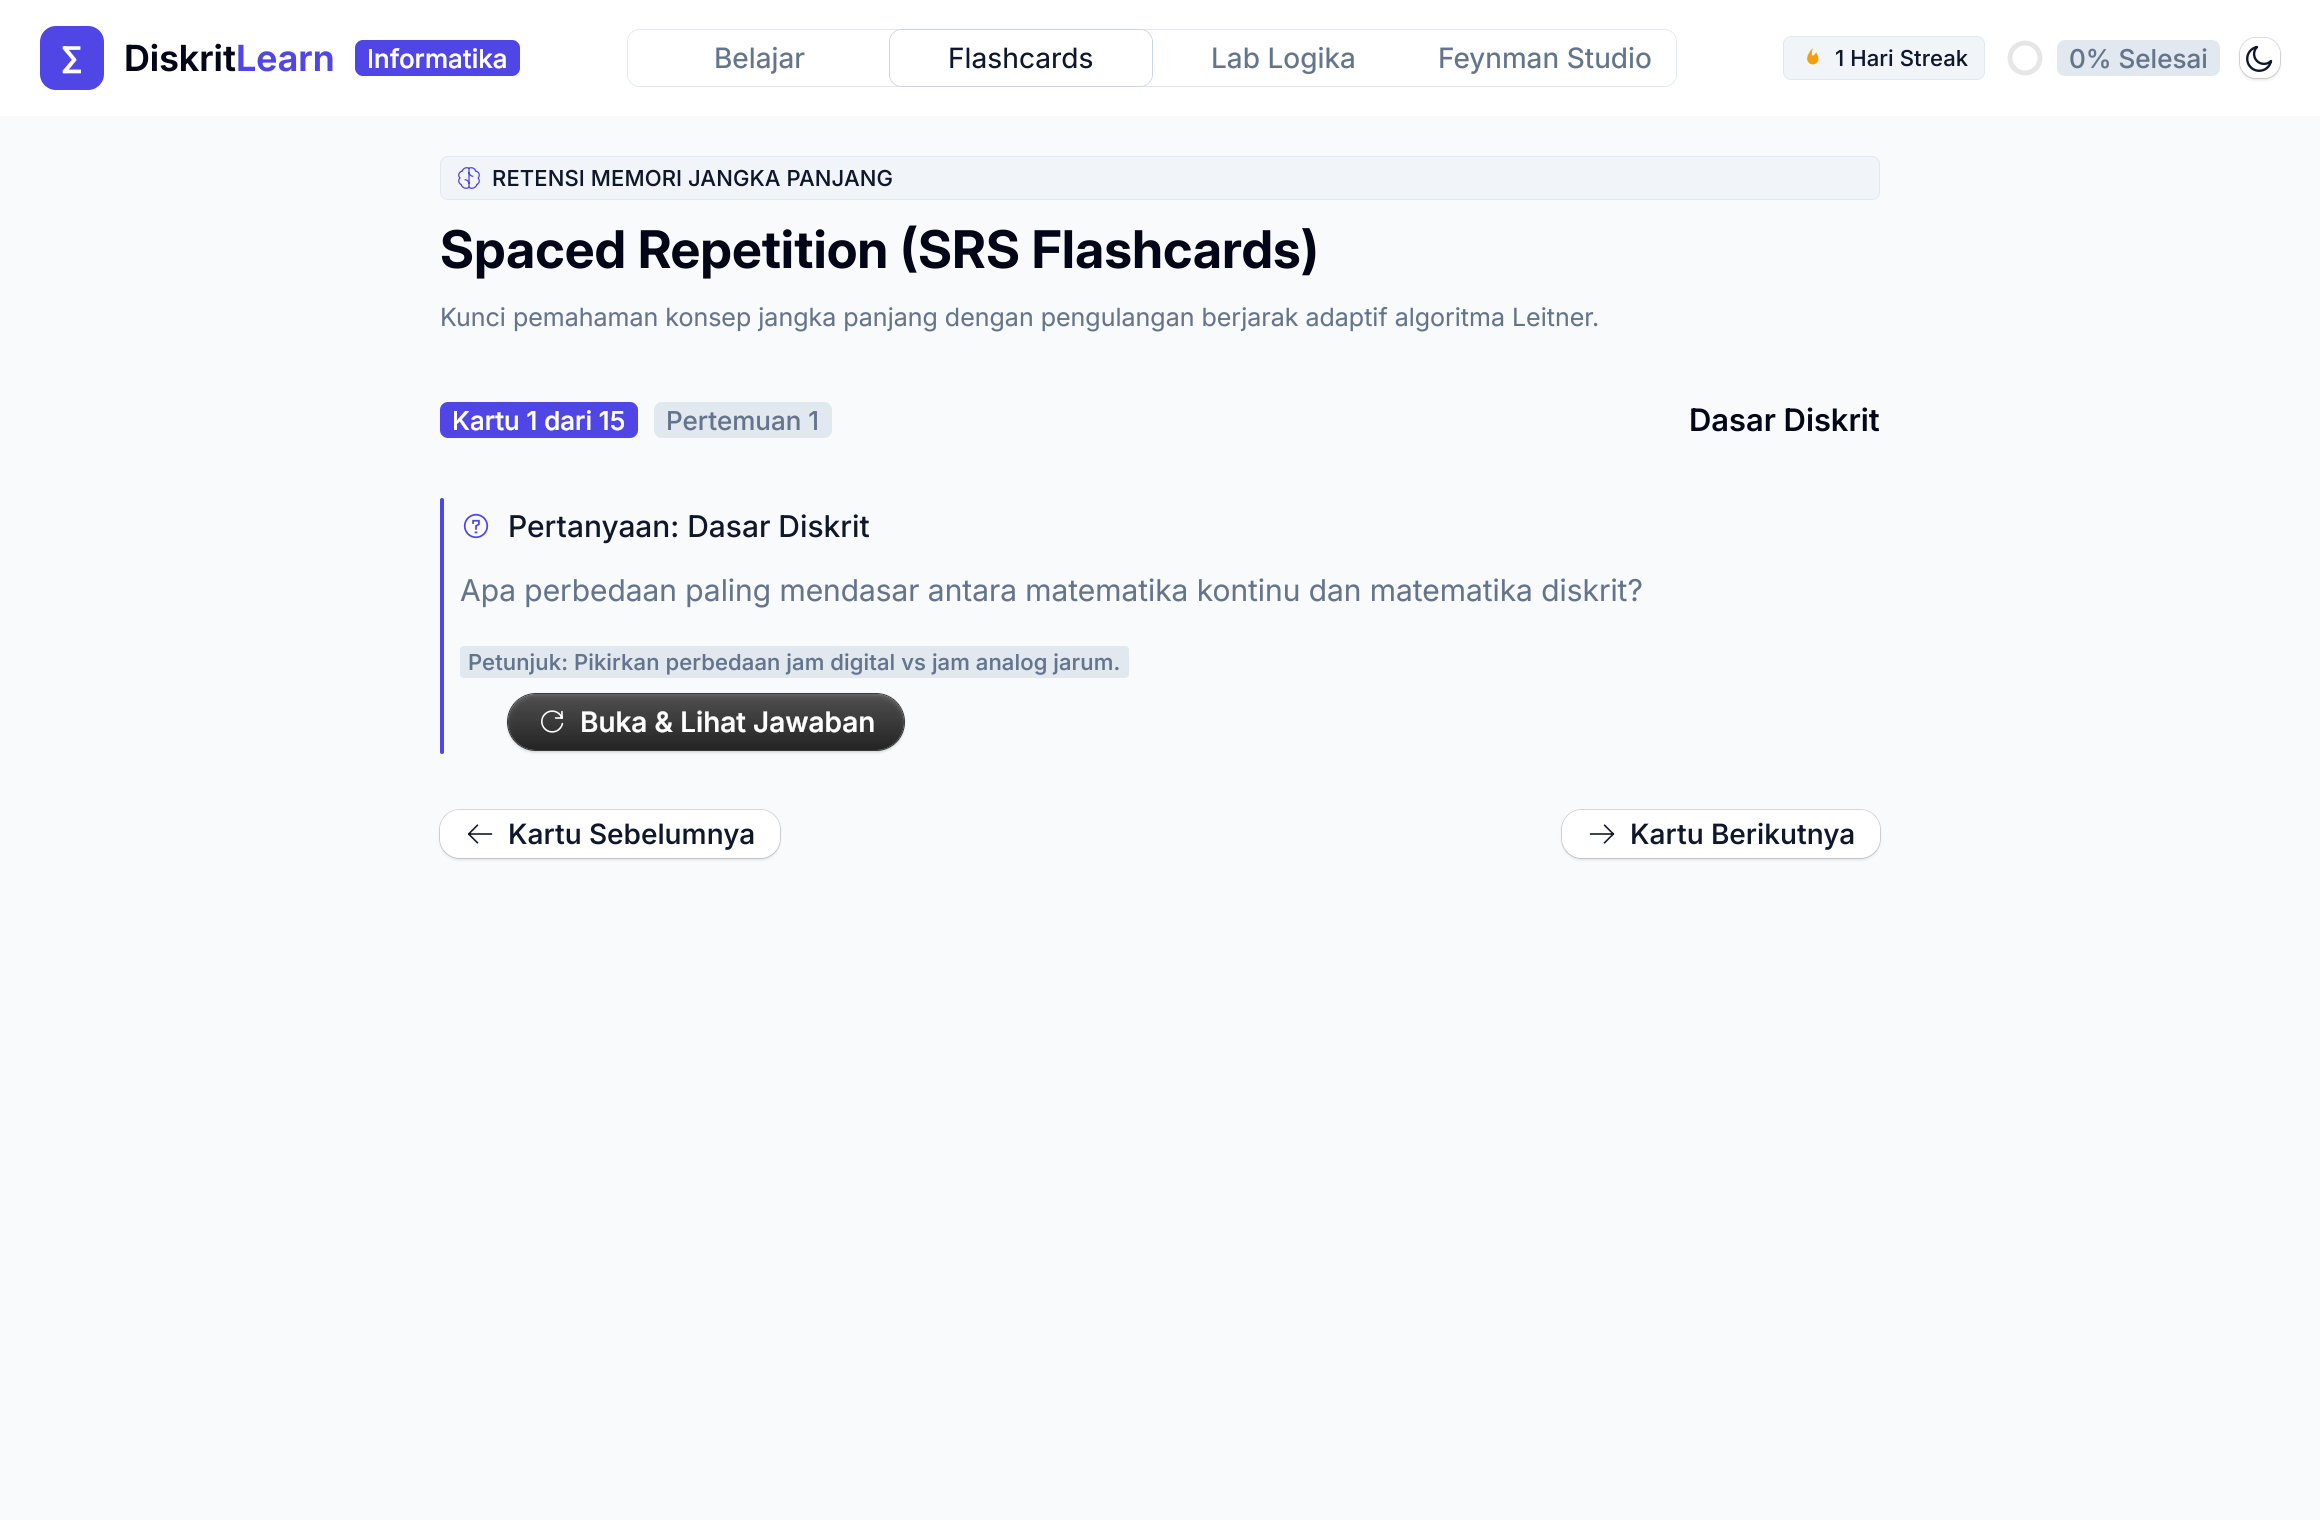
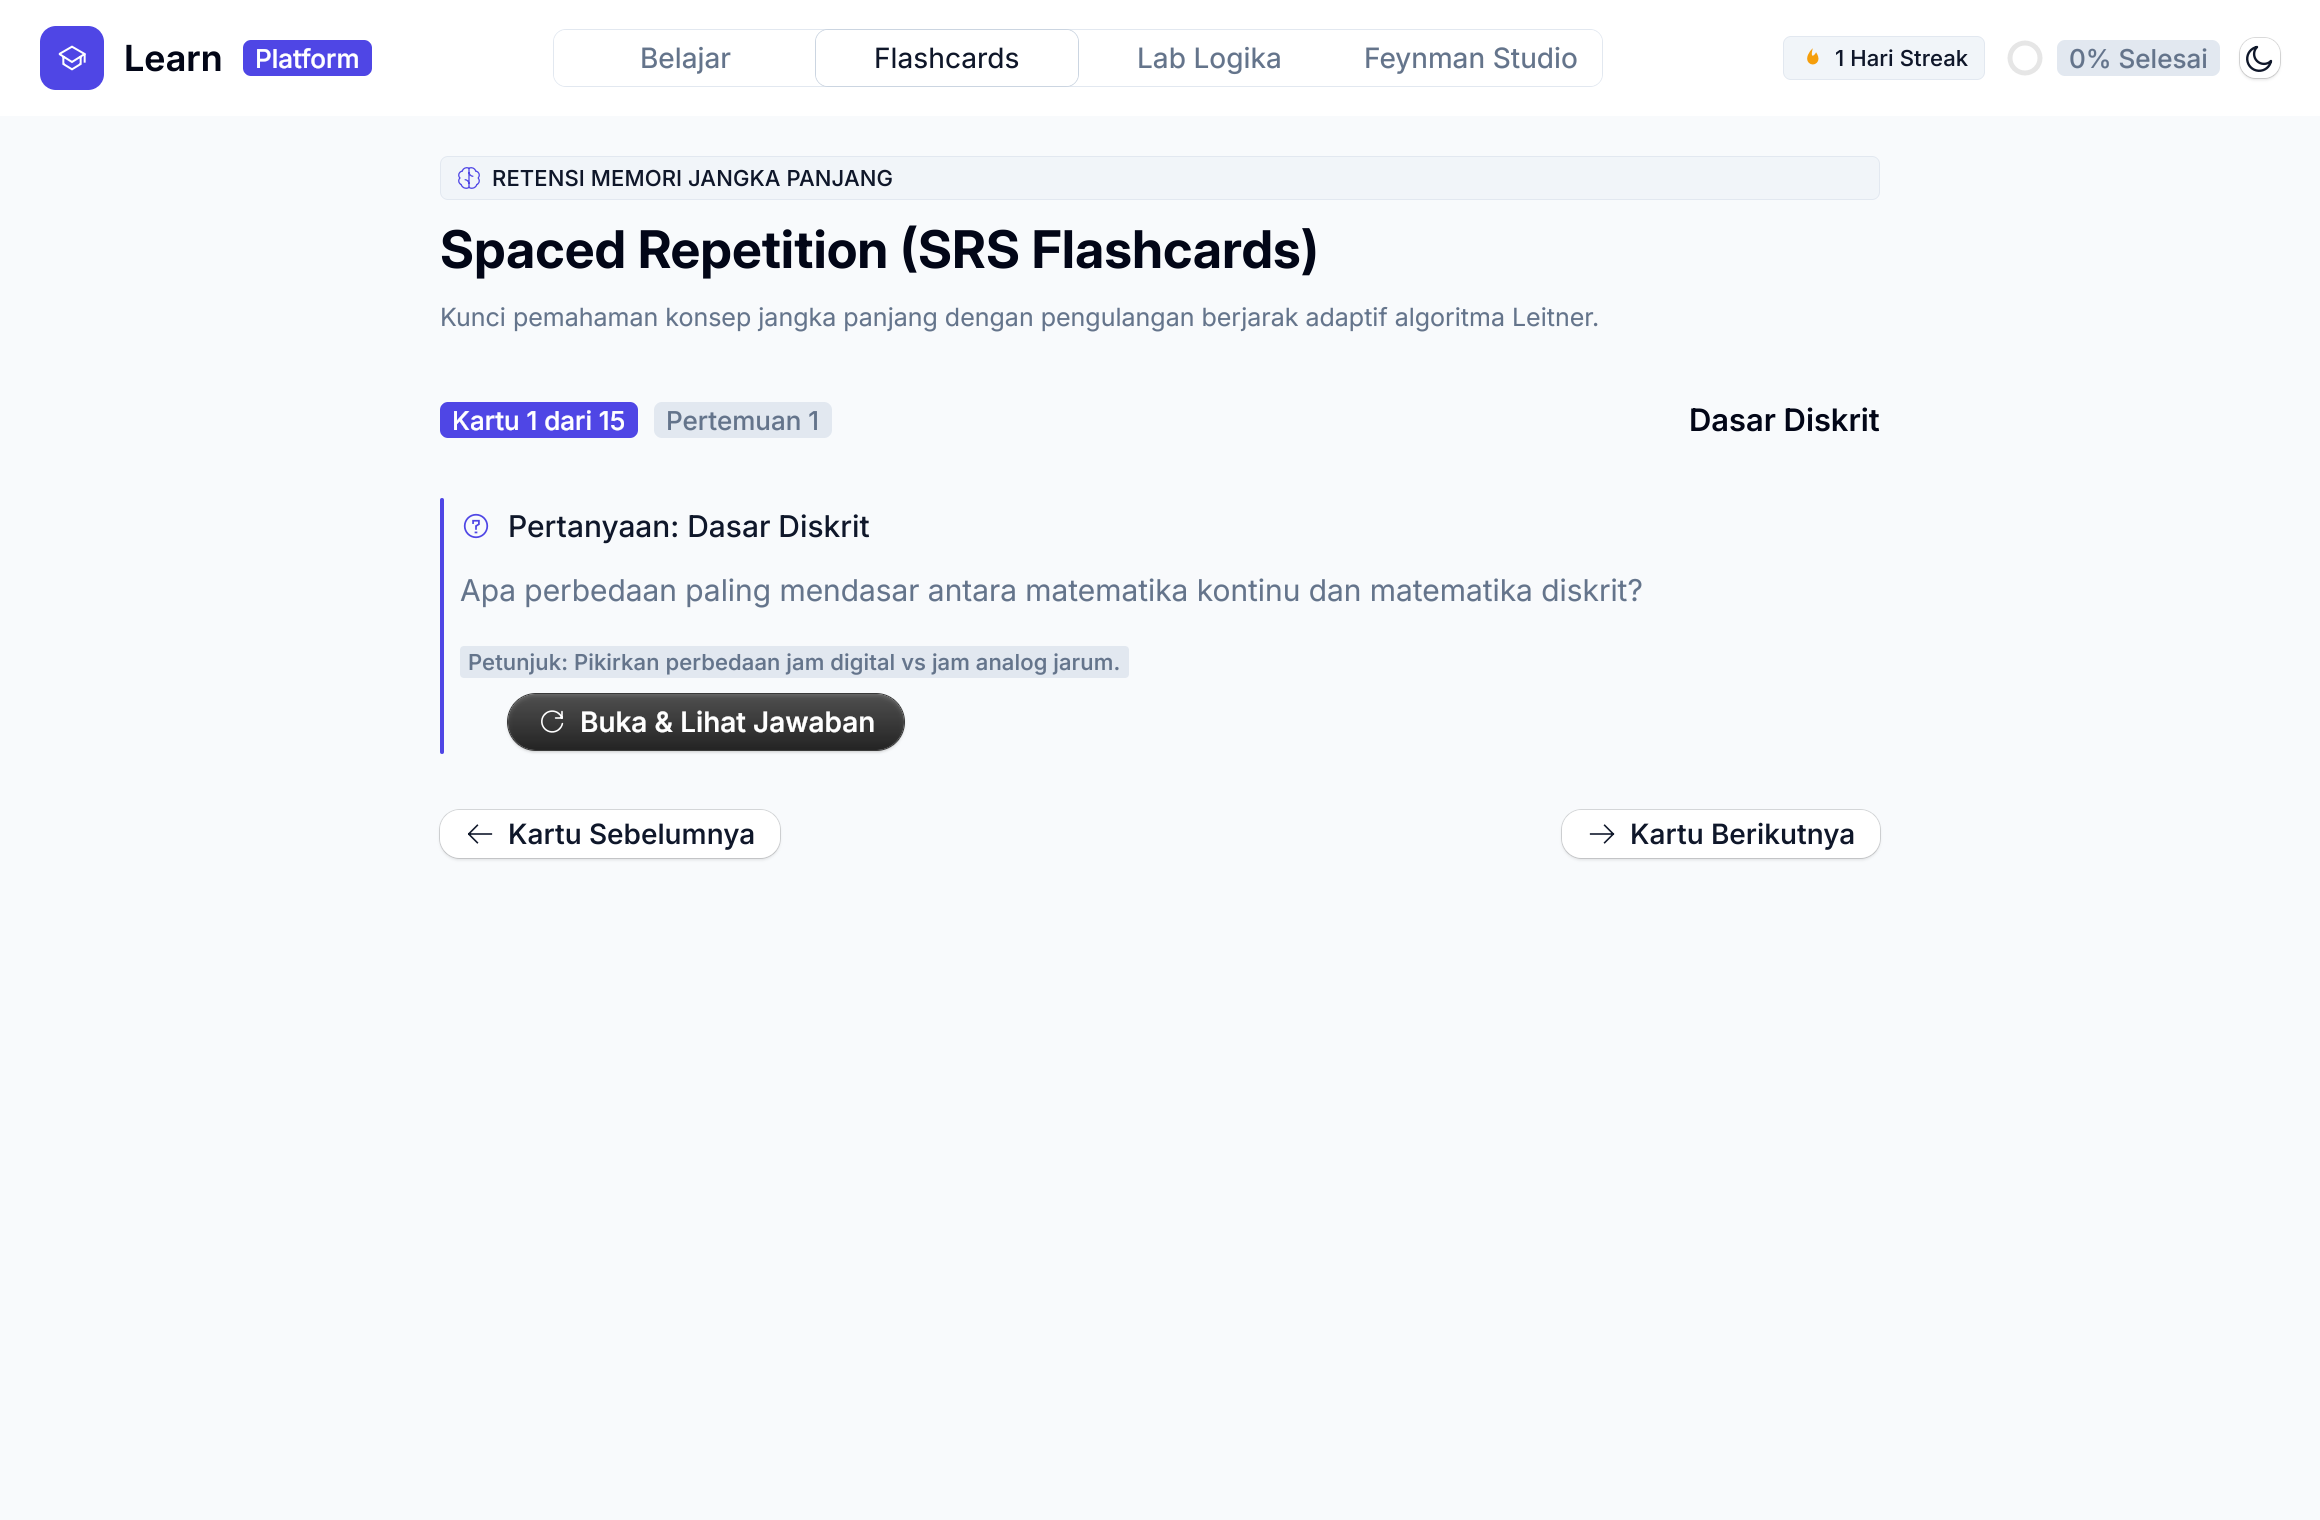
chore(branding): rename project to Learn for multi-subject curriculum support

diff --git a/index.html b/index.html
@@ -3,10 +3,10 @@
 <head>
   <meta charset="utf-8">
   <meta http-equiv="refresh" content="0; url=/target/web/">
-  <title>Mengarahkan ke DiskritLearn...</title>
+  <title>Mengarahkan ke Learn...</title>
   <script>window.location.href = '/target/web/';</script>
 </head>
 <body style="background:#121417;color:#fff;font-family:sans-serif;text-align:center;padding-top:20vh;">
-  <p>Mengarahkan ke DiskritLearn... <a href="/target/web/" style="color:#58a6ff;">Klik di sini jika tidak beralih otomatis</a></p>
+  <p>Mengarahkan ke Learn... <a href="/target/web/" style="color:#58a6ff;">Klik di sini jika tidak beralih otomatis</a></p>
 </body>
 </html>

diff --git a/src/views/navbar.rs b/src/views/navbar.rs
@@ -14,14 +14,13 @@ pub fn render(state: &State, kit: &Kit) -> El {
         .radius(kit.radius.sm)
         .fill(c.bg_accent)
         .center()
-        .child(text("∑").font(ty.title_sm).color(rune::Color::WHITE));
+        .child(rune::icon(&icons::GRADUATION_CAP, 16.0).color(rune::Color::WHITE));
 
-    let logo_title = row()
-        .center_y()
-        .child(text("Diskrit").font(ty.title_md).color(c.text_strong))
-        .child(text("Learn").font(ty.title_md).color(c.text_accent));
+    let logo_title = text("Learn")
+        .font(ty.title_md)
+        .color(c.text_strong);
 
-    let logo_badge = Badge::new("Informatika")
+    let logo_badge = Badge::new("Platform")
         .variant(BadgeVariant::Accent)
         .standard()
         .build(kit);

diff --git a/src/lib.rs b/src/lib.rs
@@ -54,6 +54,6 @@ pub fn start() {
             ("lab", |s: &mut State| s.active_tab = Tab::Lab),
             ("feynman", |s: &mut State| s.active_tab = Tab::Feynman),
         ],
-        ..AppSpec::new("DiskritLearn", (1160.0, 760.0), State::default, view)
+        ..AppSpec::new("Learn", (1160.0, 760.0), State::default, view)
     });
 }

diff --git a/README.md b/README.md
@@ -1,9 +1,9 @@
-# DiskritLearn 🚀
-> Platform Belajar Matematika Diskrit Interaktif berbasis **"Learn How to Learn"** & Framework UI GPU **`anomalyco/rune`** (OpenCode).
+# Learn 🚀
+> Platform Belajar Interaktif berbasis **"Learn How to Learn"** (Cognitive Science) & Framework UI GPU **`anomalyco/rune`** (OpenCode).
 
-Dibuat khusus untuk mahasiswa Teknik Informatika (berdasarkan kurikulum Matematika Diskrit UDINUS, Pak Erwin Hidayat).
+Dibuat dengan arsitektur modular untuk mendukung berbagai kurikulum sains & komputasi (dimulai dari kurikulum lengkap Matematika Diskrit UDINUS, Pak Erwin Hidayat).
 
-![DiskritLearn Preview](preview.png)
+![Learn Preview](preview.png)
 
 ---
 
